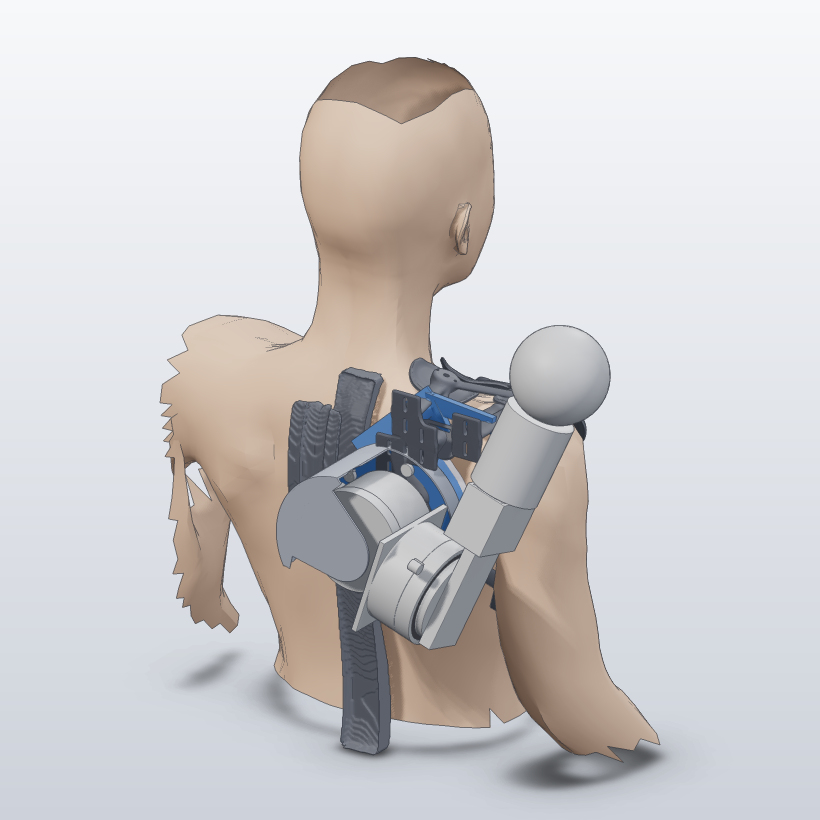
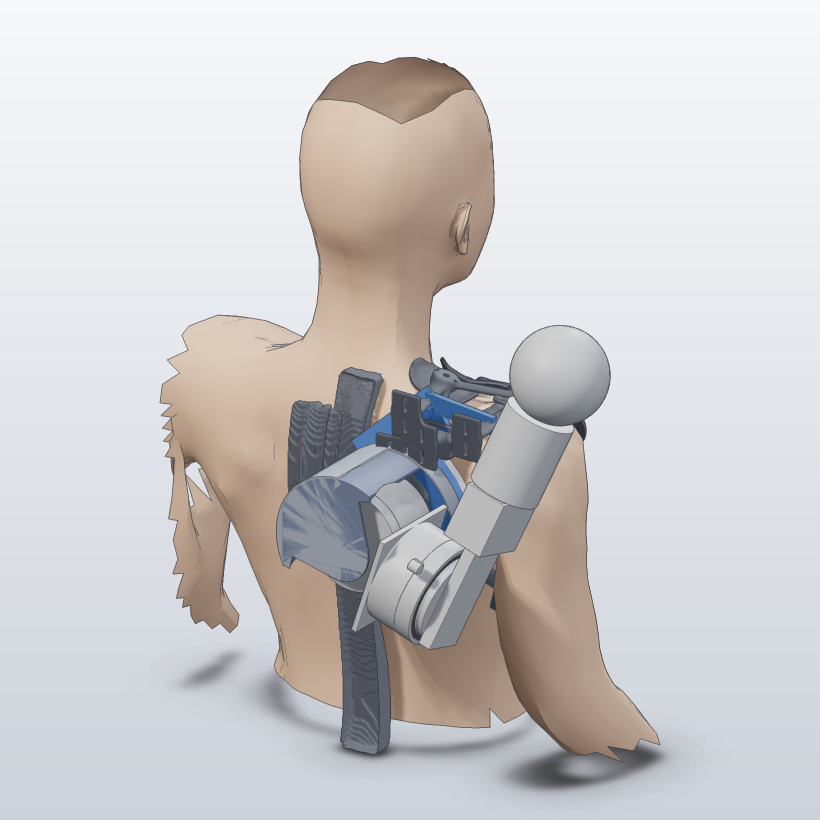
MJ11 overnight integration: merged-part re-run, regenerated renders, summary spec, design state

Changed region(s): [[0.3354, 0.5488, 0.5183, 0.7012]]

diff --git a/specs/SPEC_j1r2_mj11_overnight_summary.md b/specs/SPEC_j1r2_mj11_overnight_summary.md
@@ -1,24 +1,47 @@
-# MJ11 overnight integration summary (2026-11-03)
+# MJ11 overnight integration summary (2026-11-03, SHOULDER / WING / CLASP / SENSING / CONTROL integration)
 
-Status: NOTHING MERGED. None of the five expected overnight branches exist on origin
-(`git ls-remote --heads origin` at 2026-11-03):
+Replaces the earlier "nothing merged" stub (written when no overnight branch existed yet). Main now carries all five sessions.
 
-| Branch | Present |
-|---|---|
-| claude/mj11-clasp-bracket-2026-11-03 | no |
-| claude/mj11-fairing-2026-11-03 | no |
-| claude/mj11-leads-interfaces-2026-11-03 | no |
-| claude/mj11-loads-balancer-2026-11-03 | no |
-| claude/mj11-whole-arm-sweep-2026-11-03 | no |
+## 1. What was merged
+`git ls-remote` showed all five named branches present (clasp, fairing, leads-interfaces, loads-balancer, whole-arm-sweep). Each session was also run more than once in parallel and pushed variant branches (`-b`, `b`, `-w14`, `-sep-body-cover`, `-slots`, `-c`, `-run2`, `-post5`). Only the five exact names were merged; the variants are NOT merged and remain on origin for comparison (notably clasp `-w14`: 14x6 bar at psi 120, 4.7 / 6.2 mm; clasp `-b`: 16x6 at psi 119, 3.8 / 6.2 / 5.4; whole-arm `-run2`: 5 deg curves + proposed S1' tables).
+Order: clasp bracket, fairing, leads/interfaces, loads/balancer, whole-arm sweep. Conflicts: CLAUDE.md item 7, DESIGN_STATE.md changelog (all lines kept, dated), SPEC_j1r2_blade_seat.md (both sections kept), `mj_concepts3.py` (bracket function from clasp + fairing functions; psi 119 default and LEAD_PSI/LEAD_W env from leads kept), `.gitignore`, generated renders / JSON (regenerated after the merges). The loads branch also tracked `_render_cache` / `_bal_render` STLs; those were un-tracked and ignored. No branch failed a gate, so none was withheld.
+After merging: `mj_eval.py MJ11`, `mj11_sweep.py`, the whole-arm sweep chain (`mj11_whole.py`, `mj11_shoulder_s3.py`, report, tiers, plot) were re-run on the merged parts, because the whole-arm branch had been computed with the old bracket (psi 120, r 58) and no fairing.
 
-Remote heads present: main (26fd568, MJ11 adoption), claude/j1r2-flat-shoulder-2026-11-02,
-claude/j1r2-mounts-2026-11-02, plus older hand / armor / collision branches.
+## 2. What each session found
+- **Clasp bracket:** psi 120 -> 119, anchor r 58 -> 66; bar 24x6 PA-CF. Bracket to S1' group 2.03 -> 4.82 mm (passive box +-5 deg), rail 5.1, bridge 20.1, skin blade 5.4. Finding: the pair M1|bracket had been silently excluded as "designed contact"; S1' now reaches the 3 mm gate on the bracket at +13.4 deg, so the S1' firmware keep-out is +13 deg, reach-free 0.786 -> 0.706. Bar-to-pad lap fastening PLACEHOLDER.
+- **Fairing:** 1.8 mm PA-CF C-shell, 42.7 g (mount 186 -> 229 g), 81 x 94 x 112 mm, end plate down, no split; M3 x 5 tabs into 3 heat-set inserts in the pad (PLACEHOLDER). Clearance to moving stage >= 3.2 mm, skin 24.4, rail 9.7, bridge 5.8.
+- **Leads / shear / interfaces:** only infraspinatus and teres major lie under the liner; trap_mid, rhomboid, trap_low (6 discs) lie under the now-structural rail, which conflicts with the 2026-10-23 "remove skeleton over electrodes" decision (options A windowed rail / B move pairs / C keep stack). The fixed 8 mm radial lead channels cannot carry a lead laminated to the base layer (22..55 mm across-axis slide vs 2.9 mm allowed): options L1 flat trace / L2 aligned channels / L3 coil. Liner shear 0.42..1.05 kPa dry / 0.84..1.68 wet with a slip face (2.5..4.2 kPa without); preload window 0.11 kPa wide, so accept brief lift-off. New `cad/interfaces.py` WING contract (4 x M4 rail bosses).
+- **Loads / balancer:** bolt tension governs (park 228, reach 310, scan max 327, stall 707 N); layout L3 (3 pairs z -150/-190/-230) gives SF 2.4 at stall and 2.7 at x2 scan (pull-out 1 kN UNVERIFIED). No strap preload can close rail / liner lift-off (7x short): use >= 0.3 mm donning squeeze. Gravity torque over the real MJ11 workspace: S1' 7.24 N.m (SF 1.15), S2 4.61 soft / 3.60 box (SF 1.80 / 2.30). Balancer (a) psi 120: 3.27 / 3.27 N.m (SF 2.54) for +335 g/side, top-pad area +3.8 %; cap-only (b) keeps 49 % of poses at 0.5 kg.
+- **Whole-arm sweep:** see section 3.
 
-Consequences: no per-session numbers, no merged-part gate table, no firmware-table
-candidate, no final renders or STL zip were produced. Main's MJ11 state is unchanged
-(adopted 2026-11-02; open items in CLAUDE.md item 7 stand).
+## 3. Merged-geometry re-run (this session)
+Whole-arm sweep (S1' x S2 10 deg, S3 3, E 20, W1/W2/W3 3 each = 170,100 poses, 566 s): reach-free 51,151 (30.1 %; branch value on old parts 32.5 %), frontier 32,094 (18.9 %), deep dropped 86,855 (51.1 %). Passive box unchanged: S1' -95..5, S2 -15..17.4, coverage 0.466; shoulder-level reach-free coverage 0.706. Shoulder keep-outs: M1|M3 S2 -21.9 (1.5 mm); M3|clasp bracket S1' >= -6.9, S2 >= 28.2; M3|head first contact S1' 9.4..14.6; M3|skin S2 32.9..44.0; M2|skin S2 40.7..44.7; **new vs the branch run:** M1|bracket at S1' +13.5 (2.2 mm) and M1|fairing at S1' +11.9 (1.06 mm), both beyond the +10 deg hard stop (1.9 deg margin). Tier tables regenerated: park cell FULL 0 / RESTRICT 120 / NEUTRAL 0 deg; over the box RESTRICT 60..120 (never closed), NEUTRAL 0, FULL closed in 9 of 72 cells.
 
-Still Forest's decisions: balancer / torque-gate choice; firmware table adoption.
+## 4. Gate table (merged parts)
+| gate | result | status |
+|---|---|---|
+| torque SF >= 2 (no balancer) | S1' 1.15, S2 1.80 (soft) / 2.30 (box) at 8.3 N.m rating | **FAIL, waiver or balancer needed; Forest's call** |
+| torque SF with balancer (a) psi 120 | 2.54 / 2.54 (cord to S1' group 2.0 mm, gate 3: short 1 mm; not in default geometry) | not adopted |
+| collision, parts (3 mm) | passive box + 5 deg hard stops free; fairing to moving stage 3.2 mm (S2 clamp), stop collar 4.2, bracket vs fairing 3.18, bracket vs S1' group 4.82, rail spacers 5.8, bridge 5.8 | PASS |
+| collision, hard-stop margins | M1|fairing 11.9 deg and M1|bracket 13.5 deg vs hard stop 10 | PASS (1.9 / 3.5 deg) |
+| skin gap | pad 18.3 rail / 10.6 blade; seat dish 5.3 blade; bracket 5.3 blade / 21.9 rail; fairing 24.4 / 25.8; liner -1.7 on blade (accepted design contact, slip face); rule violations: none | PASS (liner exception per Forest 2026-11-02d) |
+| head / neck 60 mm | head_neutral 47.8 mm reported by mj_eval (park clearance as before); M3 first-contact at S1' >= 9.4 stays outside the box | PASS inside box, firmware keep-out needed |
+| frame stiffness / stress | tip sag 0.84 / 1.81 mm; rail 1.3, clasp seat 1.8, bridge 1.0 MPa; liner +-2 kPa, <= 14.7 kPa sustained | PASS |
+| bolts | reach 312 N, scan 327, stall 707 N at L0 (SF 1.4 at 1 kN UNVERIFIED); L3 proposal SF 2.4 | CONDITIONAL (L3 not in default geometry) |
+| printability (256 mm cube) | fairing 81 x 94 x 112 mm one piece; bracket, pad, dish unchanged; supports only for tab undersides / gland bore (teardrop to do) | PASS |
+| mass | mount 228.7 g per side (pad 93.0, dish 56.6 hollow fill, liner 9.9, spacers 2.7, bracket 23.8, fairing 42.7); +335 g if balancer (a) | reported |
+| top-pad margin | 2.0 % no balancer; -3.4 % with balancer (a) unless pad area +3.8 % | PASS / FAIL by option |
+| watertight / volume | fairing, bracket, pad meshes exported watertight by mj_eval (mass from volume) | PASS |
 
-Next steps: check whether the five overnight sessions ran or failed to push (likely
-push permission or session failure); rerun them, then rerun this merge task.
+## 5. Decisions that remain Forest's
+1. **Torque gate / balancer:** waiver at SF 1.15 / 1.80; (a) world-anchored spring (psi 120, +335 g, +3.8 % pad area, cord guide + redirect sheave, mirror-tight home); (a)+cap; (b) firmware cap 4.15 N.m (49 % of poses at 0.5 kg); AK70 stall cap 8.3 -> 8.0 N.m.
+2. **Firmware table adoption:** shoulder keep-outs (S2 soft min -15, S1' soft max 5, S2 <= 26 for S1' >= -5, S2 <= 31 for S1' <= -85, S1' +13 deg bracket) and the candidate tier headers in `stl/j1r2_sweep/firmware_candidate/` (not drop-in: control.h / protocols.h need an S1' port; firmware lives in the Project, not the repo).
+3. Rail over the trap/rhomboid electrodes vs the flex-lead decision (A / B / C); lead architecture L1 / L2 / L3.
+4. Bolt layout L3 into the geometry and WING contract; donning squeeze >= 0.3 mm.
+5. Clasp variant: merged psi 119 / 24x6 bar vs the alternates on origin (14x6 at psi 120; 16x6 at psi 119).
+
+## 6. Next steps
+Tighten the hand envelope (rev B mesh instead of the +-60 mm box) and re-sweep (~9 min); port control.h / protocols.h to S1'; harness_loads / body_loads re-run with pods and boots; insert pull-out coupon (T-W-INS); cord guide and friction for balancer (a) if chosen; L3 bosses in `mj11_geo`; bar-to-pad lap fastening; gland position vs cable run; hard-stop S1' -100 sweep (grid ended at -95).
+
+## 7. Files
+Renders: `renders_j1r2/mounts/MJ11_{rear34,rear,side,top,sheet}.png` (regenerated on the merged parts), STLs `stl/j1r2_mounts/MJ11/MJ11_*_{R,L}.stl`, sweeps `stl/j1r2_sweep/`.

diff --git a/DESIGN_STATE.md b/DESIGN_STATE.md
@@ -136,6 +136,16 @@ See `specs/SPEC_hand.md`. **Forest (2026-10-30): "Merge this as the new project 
 - Holding torque 0.012-0.024 N.m.
 - **Not locked:** the contract change, unrun sweeps and harness confirmation.
 
+## 12-pre. MJ11 subsystem registry (2026-11-03)
+| subsystem | status | note |
+|---|---|---|
+| SHOULDER (J1 = MJ11 pad, fairing, S1'/S2/S3) | IN DESIGN | bracket + fairing re-fit merged; torque gate open (Forest) |
+| WING (rail + 4 M4 bosses) | IN DESIGN | bosses PLACEHOLDER; L3 layout proposed |
+| CLASP (bracket psi 119, r 66) | IN DESIGN | all gates met; lap fastening PLACEHOLDER |
+| SENSING (leads / liner shear) | IN DESIGN | rail-over-electrodes conflict and lead architecture: Forest |
+| CONTROL (tier tables, keep-outs) | candidate only | not adopted; headers not drop-in |
+See `specs/SPEC_j1r2_mj11_overnight_summary.md`.
+
 ## 12. Open items
 
 1. **W2 / W3 loops.** The 30-base re-search (`run_local.sh`) did not finish: W2 stopped at 75/400 candidates with 1 marginal hit (clr 0.80, bend 13.2), W3 at 8/400 with 1 marginal hit (clr 0.80, bend 12.1). The `wire_search_W2_CB.json` / `W3_CB.json` in the repo are from a 12-base run. If it still fails: firmware limit W1 >= -30 deg when E < 60, or a rubbing sleeve. **Forest to decide.**
@@ -190,3 +200,4 @@ See `specs/SPEC_hand.md`. **Forest (2026-10-30): "Merge this as the new project 
 - 2026-11-03: MJ11 fixed fairing re-fit (SHOULDER). New part `fairing` in cad/j1r2/mj_concepts3.py: 1.8 mm PA-CF C-shell on the pad rear face over the S1' AK70, outline = pad R66 trimmed y -121 (flush with pad and dish edge), swept slot for the S1' bar / S2 clamp as in j1r2_geom (gap 3.2), liner lead channels psi 225/270/315 open, gland bore psi 190, 3 tabs M3 x 5 into short inserts in the pad (pad got 3 holes, PLACEHOLDER). 42.7 g (mount 229 g). Clearance over the hard ranges: moving stage >= 3.2 mm (S2 clamp 3.2, collar 4.2), skin 24.4, rail 9.7, spine bridge 5.8, clasp bracket 3.0. Sweep: passive box unchanged (S1' -95..5, S2 -15..17.4, cov 0.466); free reach beyond stops 0.786 -> 0.706. Prints end plate down, 81 x 94 x 112 mm, no split. New check script mj11_fairing_check.py (called from mj_eval). Old J1 rev 2 fairing_fixed stays excluded. Open item 3 of the MJ11 to-do (fairing re-fit) closed; gland position and cable run remain. See specs/SPEC_j1r2_blade_seat.md.
 - 2026-11-03: MJ11 loads + torque gate options (`specs/SPEC_j1r2_mj11_loads_balancer.md`). Port of harness/body loads onto MJ11 frame; bolt tension (V0 620 N x2) governs, V4 3-pair layout recommended (SF 3.3); strap cannot supply lift-off preload (56-112 N/side). S1' fails SF gate (7.24 N.m, SF 1.15; empty 1.91), S2 passes in the MJ11 box (SF 2.30). Options a-d tabulated; balancer packaging scan incomplete (cord vs M1 0.3 mm). No geometry/firmware change; decisions pending Forest.
 - 2026-11-03: MJ11 whole-arm first-contact sweep (S1' x S2 10 deg, S3 {-70,0,90}, E 20, W1/W2/W3 3 values, 170,100 poses, 534 s): 32.5 % reach-free, 20.6 % frontier, 46.8 % deep dropped; passive box S1' -95..5 / S2 -15..17.4 (cov 0.466) unchanged. Shoulder keep-outs (M1-M3 S2 -21.9; M3 vs clasp bracket S2 28..40 at S1' 5..-7; M3 vs head 60 mm S1' 9.5..35; M3 vs skin S2 33..44) and candidate FULL / RESTRICT / NEUTRAL elbow tables + keep-out map in `stl/j1r2_sweep/` (park cell FULL 0 / RESTRICT 120 / NEUTRAL 0). Firmware headers NOT adopted: gen_tables.py inputs are legacy-geometry, balancer / grav tables not regenerable without a balancer, control.h axes still legacy S1. See `specs/SPEC_j1r2_mj11_whole_arm.md`. Branch claude/mj11-whole-arm-sweep-2026-11-03 (Forest to review).
+- 2026-11-03 (integration): merged clasp, fairing, leads/interfaces, loads/balancer and whole-arm branches into main (variant branches not merged); re-ran mj_eval MJ11, mj11_sweep and the whole-arm chain on the merged parts: passive box unchanged (S1' -95..5, S2 -15..17.4, cov 0.466), reach-free 0.706, whole-arm reach-free 30.1 %, new keep-outs M1|fairing +11.9 / M1|bracket +13.5 deg (beyond the hard stop). Torque gate (S1' SF 1.15) still fails without a balancer: Forest's decision. See `specs/SPEC_j1r2_mj11_overnight_summary.md`.

diff --git a/CLAUDE.md b/CLAUDE.md
@@ -32,4 +32,4 @@ Scripts, specs and data referenced but not in the repo are listed in `DESIGN_STA
 - Design decisions that change geometry, limits or firmware tables are Forest's call. Lay out the options and numbers; don't pick silently.
 - Record decisions and changelog entries in the design-state docs, dated.
 
-7. SHOULDER J1 = MJ11 blade-seated pancake (adopted 2026-11-02, `specs/SPEC_j1r2_blade_seat.md`): pad (-60, -190, 12), default in `cad/j1r2/mj_frame.py` (`J1_PAD` env overrides). Done 2026-11-03: clasp bracket re-fit, fairing re-fit (merged, see `specs/SPEC_j1r2_mj11_overnight_summary.md`). To do: full sweep + firmware tables, harness_loads, balancer / torque-gate decision (Forest), lead routing + liner shear.
+7. SHOULDER J1 = MJ11 blade-seated pancake (adopted 2026-11-02, `specs/SPEC_j1r2_blade_seat.md`): pad (-60, -190, 12), default in `cad/j1r2/mj_frame.py` (`J1_PAD` env overrides). Done 2026-11-03: clasp bracket re-fit, fairing re-fit (merged, see `specs/SPEC_j1r2_mj11_overnight_summary.md`). Whole-arm sweep + candidate tables re-run on merged parts. To do: Forest's firmware table adoption, harness_loads, balancer / torque-gate decision (Forest), lead routing + liner shear.
